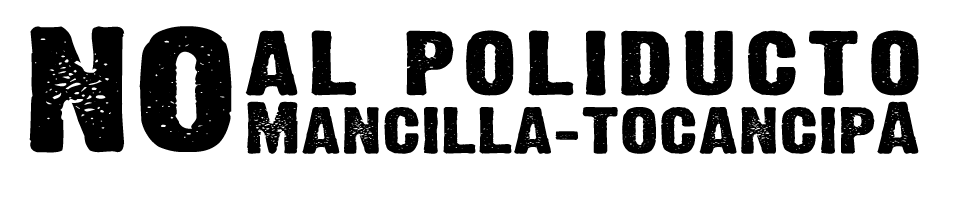
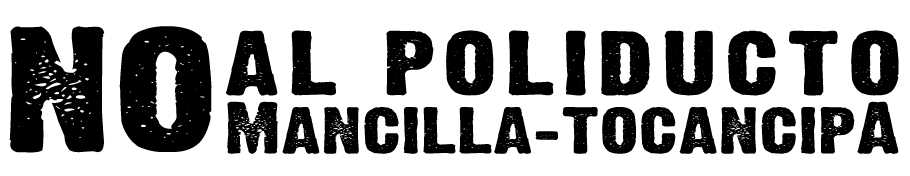
HACKS para IE, Ajustes minimos

diff --git a/wp-content/themes/noalpoli/style.css b/wp-content/themes/noalpoli/style.css
@@ -158,6 +158,7 @@ h4 {
 	margin-left:-15px;
 	margin-bottom:0.7em;
 	margin-top:1em;
+	clear:left;
 }
 
 .hidden , #hiddenForm {
@@ -191,7 +192,7 @@ text-align:center;
 
 div#wrap {
 	text-align:left;
-	margin:20px auto;
+	margin:10px auto;
 	width:1000px;
 	background-image:url('img/borde_lados.png');
 	background-repeat:repeat-y;
@@ -202,18 +203,21 @@ div#header {
 	background-image:url('img/borde_arriba.png');
 	background-repeat:no-repeat;
 	background-position:top;
-	padding-top:15px;
+	padding-top:1px;
 	text-align:center;
+	height:240px;
 }
 
 div#header h1 {
-	height:160px;
-	display:block;
-	overflow:hidden;
-	background-image:url('img/headernoalpolioducto.png');
+	background-image:url(/wp-content/themes/noalpoli/img/headernoalpolioducto.png);
 	background-repeat:no-repeat;
+	display:block;
+	height:160px;
+	margin:15px auto 13px;
+	overflow:hidden;
 	text-indent:-8000px;
-	margin-left:20px;
+	width:910px;
+	overflow:hidden;
 }
 
 	div#header h1 a {
@@ -244,6 +248,7 @@ div#contenidos pre {
 	display:block;
 	float:right;
 	margin-top:-81px;
+	width:220px;
 }
 
 	div#contenidos pre a {
@@ -276,6 +281,7 @@ div#contenidos pre {
 		border-bottom:2px solid #486D01;
 		margin-bottom:25px;
 		position:relative;
+		_height:45px;
 	}
 
 		div#descCat a#subsFeed {
@@ -293,11 +299,12 @@ div#contenidos pre {
 
 		div#descCat p {
 			width:85%;
+			margin-bottom:2px;
 		}
 
 div.menosPadd {
 	margin-left:-30px;
-	width:675;
+	width:675px;
 }
 
 	div.menosPadd h4 {
@@ -467,7 +474,7 @@ div.navPosts {
 
 #comments h3
 {
-  font:500 16px;
+  font-size: 16px;
   margin:1px;
   padding:0;
 }
@@ -494,6 +501,7 @@ div.navPosts {
 #comments .comment-meta {
 	position:absolute;
 	right:5px;
+	_right:25px;
 	top:5px;
 	width:40%;
 	font-size:10px;
@@ -628,7 +636,7 @@ div.navPosts {
 
 #comments .vcard small
 {
-  font:9px/9px;
+  font-size:9px;
   color:#999;
 }
 
@@ -669,8 +677,39 @@ div#sidebarDiv {
 	}
 
 ul#sidebar li {
-	margin:0;
+	margin:0px;
+	margin-bottom:0;
 }
+
+li.widget_navt ul li {
+	margin:0px;
+}
+
+	li.widget_navt ul li a {
+		display:block;
+		line-height:25px;
+		background-color:#BAE576;
+		padding: 0 0 0 10px;
+		border:2px solid #8BC53F;
+		color:black;
+		text-decoration:none;
+		font-weight:bold;
+		margin-bottom:0px;
+		_margin-bottom:-15px;
+	}
+
+	li.widget_navt ul li a:hover{
+		background-color:#8BC53F;
+		text-decoration:none;
+	}
+
+		li.widget_navt li a:active {
+			background-color:#486D01;
+		}
+
+	li.widget_navt ul li a.activo {
+		background-color:white;
+	}
 
 label.screen-reader-text {
 	display:none;
@@ -683,9 +722,9 @@ input#searchsubmit {
 	background-image:url('img/busca.png');
 	background-repeat:no-repeat;
 	border:none;
-	text-indent:-10000px;
-	padding:0;
-	margin:0;
+	text-indent:-1900px;
+	padding:0px;
+	margin:0px;
 	cursor:pointer;
 	cursor:hand;
 }
@@ -761,29 +800,8 @@ font-weight:bold;
 margin:0;
 padding:0 2px;
 }
+	
 
-	li.widget_navt ul li a {
-		display:block;
-		line-height:25px;
-		background-color:#BAE576;
-		padding: 0 0 0 10px;
-		border:2px solid #8BC53F;
-		color:black;
-		text-decoration:none;
-		font-weight:bold;
-	}
-
-	li.widget_navt ul li a:hover{
-		background-color:#8BC53F;
-	}
-
-		li.widget_navt li a:active {
-			background-color:#486D01;
-		}
-
-	li.widget_navt ul li a.activo {
-		background-color:white;
-	}
 
 #TB_ajaxContent .cform input.backbutton, #TB_ajaxContent .cform input.resetbutton, #TB_ajaxContent .cform input.sendbutton{
 	width:190px;
@@ -947,7 +965,7 @@ div#footer {
 	}
 
 	.player_volume_min.my_jp_class_hover {
-		background-position:-20px -116px
+		background-position:-20px -116px;
 	}
 
 	.player_volume_min:active {
@@ -955,13 +973,14 @@ div#footer {
 	}
 
 .player_volume_max {
-	background:transparent url(images/botonesPlayer.png) no-repeat scroll -77px -116px;
+	background:transparent url(images/botonesPlayer.png) no-repeat scroll;
 	cursor:pointer;
 	height:20px;
 	position:absolute;
 	right:15px;
 	top:22px;
 	width:22px;
+	background-position: -77px -116px
 }
 
 	.itemBiblio .player_volume_max {
@@ -977,13 +996,6 @@ div#footer {
 		background-position:-116px -116px
 	}
 
-.player_volume_min.different_prefix_example_hover {
-	background: url("images/botonesPlayer.png") -19px -170px no-repeat;
-}
-
-.player_volume_max.different_prefix_example_hover {
-	background: url("images/botonesPlayer.png") -19px -186px no-repeat;
-}
 
 .player_volume_bar {
 	background:#86B700 none repeat scroll 0 0;
@@ -1017,7 +1029,7 @@ div#footer {
 	padding:0;
 	position:absolute;
 	top:25px;
-	width:63px;
+	width:68px;
 }
 
 	.itemBiblio .player_playlist_message {

diff --git a/wp-content/plugins/cforms/styling/wide_form.css b/wp-content/plugins/cforms/styling/wide_form.css
@@ -46,7 +46,8 @@ margin:0 0 !important;
 padding:0;
 text-align:left;
 width:50%;
-height:47px;
+_width:45%;
+height:50px;
 }
 
 
@@ -71,6 +72,7 @@ color:#333;
 display:block;
 float:left;
 font-size:12px;
+_font-size:11px;
 margin:0 10px 0 0;
 padding:2px;
 text-align:left;
@@ -146,6 +148,7 @@ label.cf-group-after span {
 
 .cform input {
 	width:190px;
+	_width:160px;
 }
 
 .cform textarea#comment {
@@ -243,6 +246,7 @@ clear:left;
 margin:30px 43px 35px 0;
 padding:0 !important;
 text-align:right;
+_margin-top:0px;
 }
 .cform input.backbutton,
 .cform input.resetbutton,
@@ -277,7 +281,7 @@ border-style:solid;
 border-width:1px 0;
 margin:0 0 5px !important;
 padding:2px 0 !important;
-height:36px;
+height:50px;
 }
 
 ol.cf-ol li ul.cf_li_text_err {

diff --git a/wp-content/themes/noalpoli/header.php b/wp-content/themes/noalpoli/header.php
@@ -125,12 +125,29 @@
 
 	    }); 
 	</script>
+<!--[if lt IE 8]>
+<style type="text/css">
+input#searchsubmit {
+	text-indent:0px;
+	padding:0 0 0 60px;
+}
+
+div#contenidos pre {
+	margin-top:0px;
+}
+
+.cform input {
+	width:160px;
+}
+
+OL.cf-ol LI {
+	width:45%;
+}
+</style>
+<![endif]-->
 </head>
 
 <body>
-<div class="Alertanotice">
-	Este sitio se encuentra en su etapa de pre-lanzamiento, Estamos terminando los últimos detalles. En la tarde será el coctel de lanzamiento :D
-</div>
 <div id="wrap">
 
 <div id="body">
